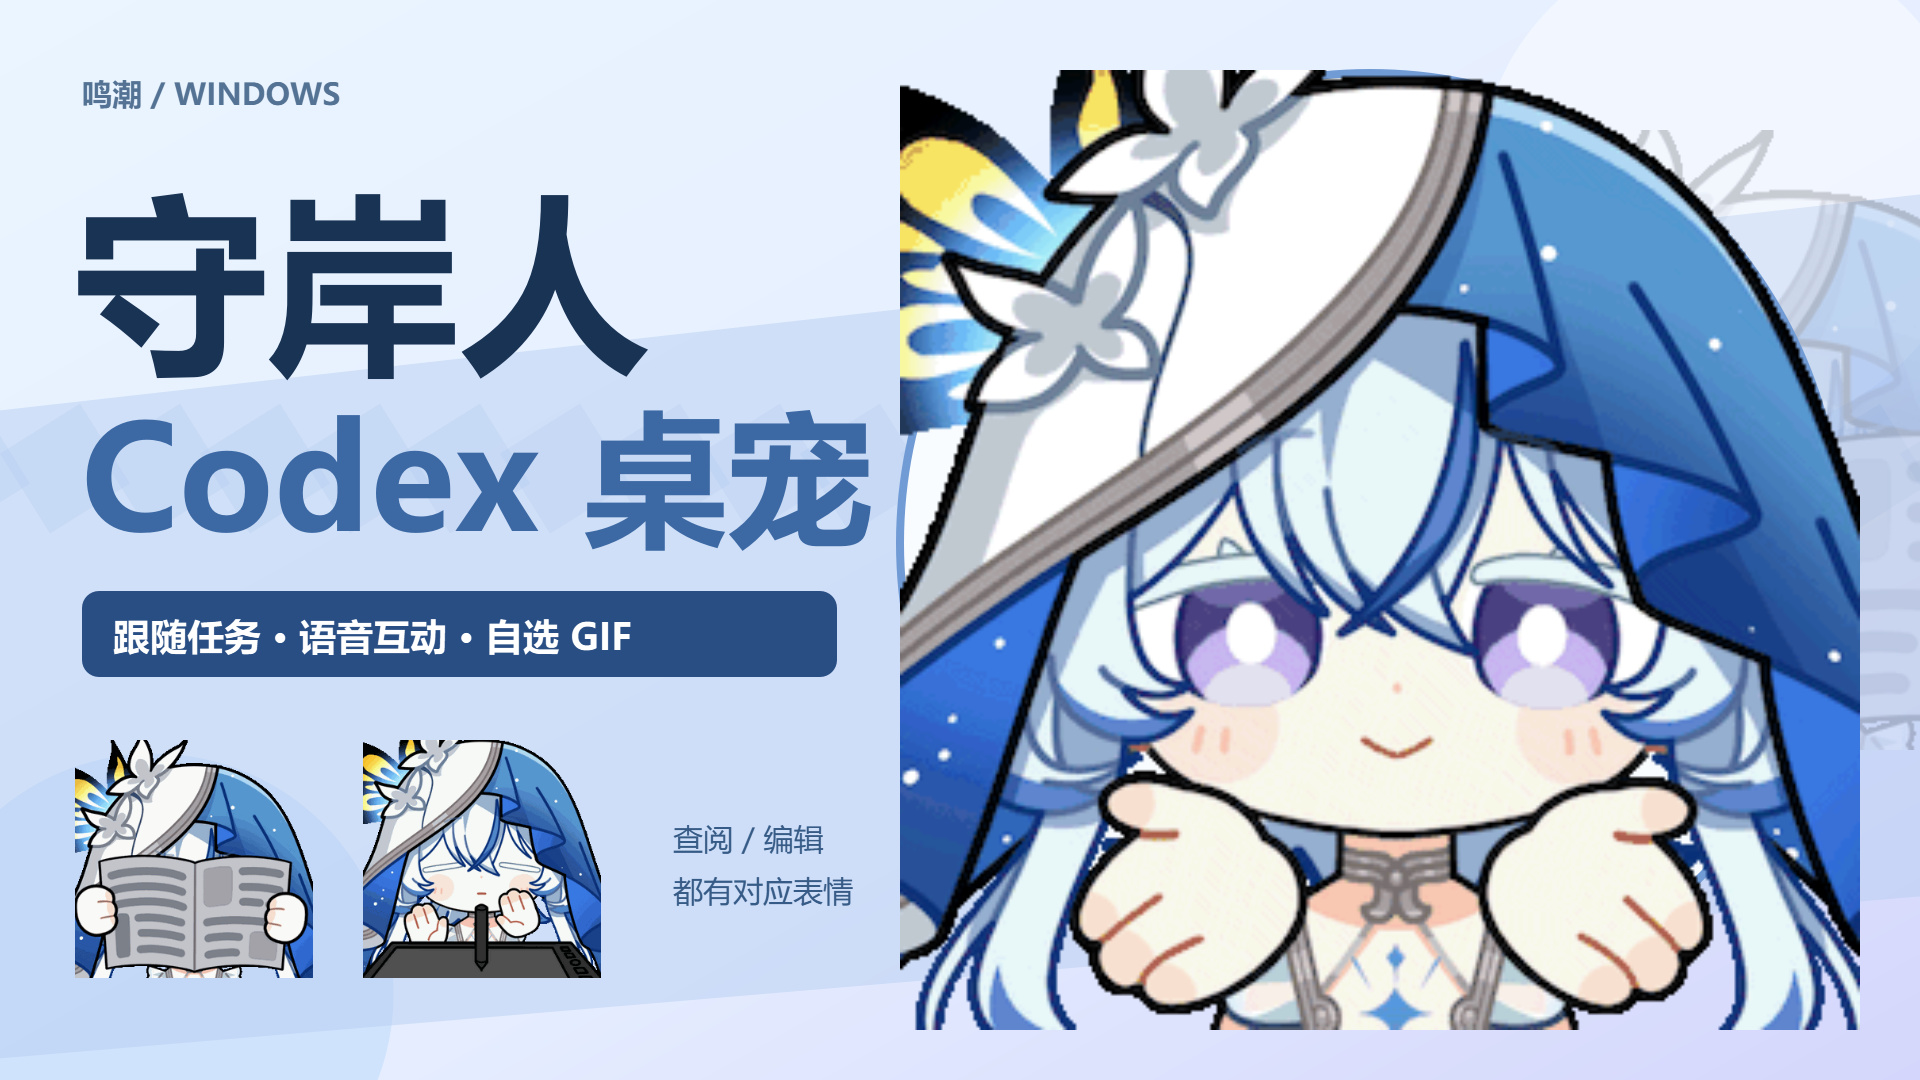
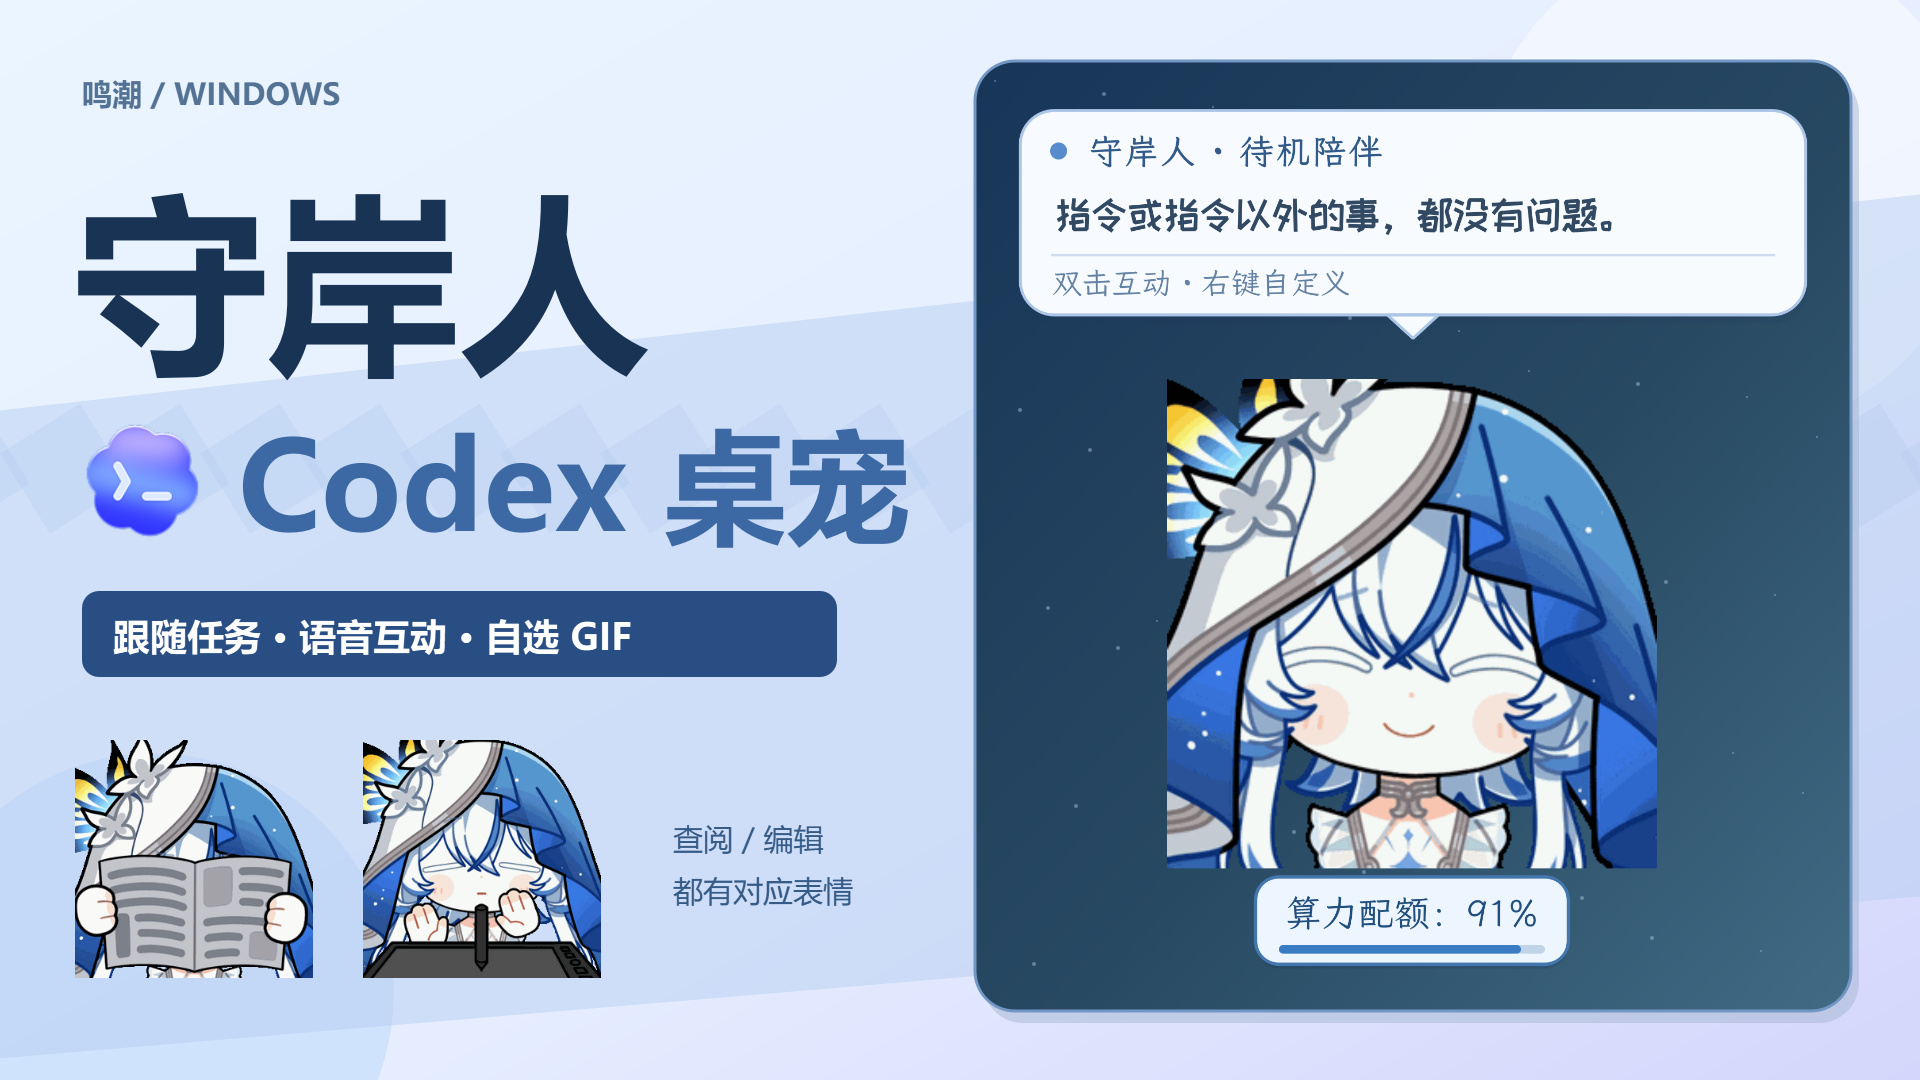
docs: show real pet UI and refresh soundtrack and video intro

diff --git a/README.md b/README.md
@@ -4,7 +4,7 @@
 
 **跟随 Codex 任务切换表情，支持自定义 GIF、语音和气泡台词。**
 
-[下载 Windows 版](https://github.com/Doya16/shorekeeper-codex-pet/releases/latest) · [观看演示](https://github.com/Doya16/shorekeeper-codex-pet/releases/download/v0.8.0/shorekeeper-landscape.mp4) · [使用指南](docs/USAGE.md) · [问题反馈](https://github.com/Doya16/shorekeeper-codex-pet/issues)
+[下载 Windows 版](https://github.com/Doya16/shorekeeper-codex-pet/releases/latest) · [观看演示](https://github.com/Doya16/shorekeeper-codex-pet/releases/download/v0.8.0/shorekeeper-landscape-r2.mp4) · [使用指南](docs/USAGE.md) · [问题反馈](https://github.com/Doya16/shorekeeper-codex-pet/issues)
 
 ![守岸人 Codex 桌宠](docs/social/cover-landscape.jpg)
 
@@ -16,9 +16,9 @@
 
 ![思考、查阅、编辑时切换表情](docs/demo/preview.gif)
 
-[横屏视频：互动与完整设置演示](https://github.com/Doya16/shorekeeper-codex-pet/releases/download/v0.8.0/shorekeeper-landscape.mp4) · [竖屏视频](https://github.com/Doya16/shorekeeper-codex-pet/releases/download/v0.8.0/shorekeeper-portrait.mp4)
+[横屏视频：互动与完整设置演示](https://github.com/Doya16/shorekeeper-codex-pet/releases/download/v0.8.0/shorekeeper-landscape-r2.mp4) · [竖屏视频](https://github.com/Doya16/shorekeeper-codex-pet/releases/download/v0.8.0/shorekeeper-portrait-r2.mp4)
 
-视频包含角色语音与 BGM。画面中的任务和额度为演示示例。
+视频包含角色语音与守岸人角色曲 [《溯而复始》](https://www.bilibili.com/video/BV1jL4PeYEn8/)（鸣潮先约电台出品）。画面中的任务和额度为演示示例。
 
 ## 下载与使用
 
